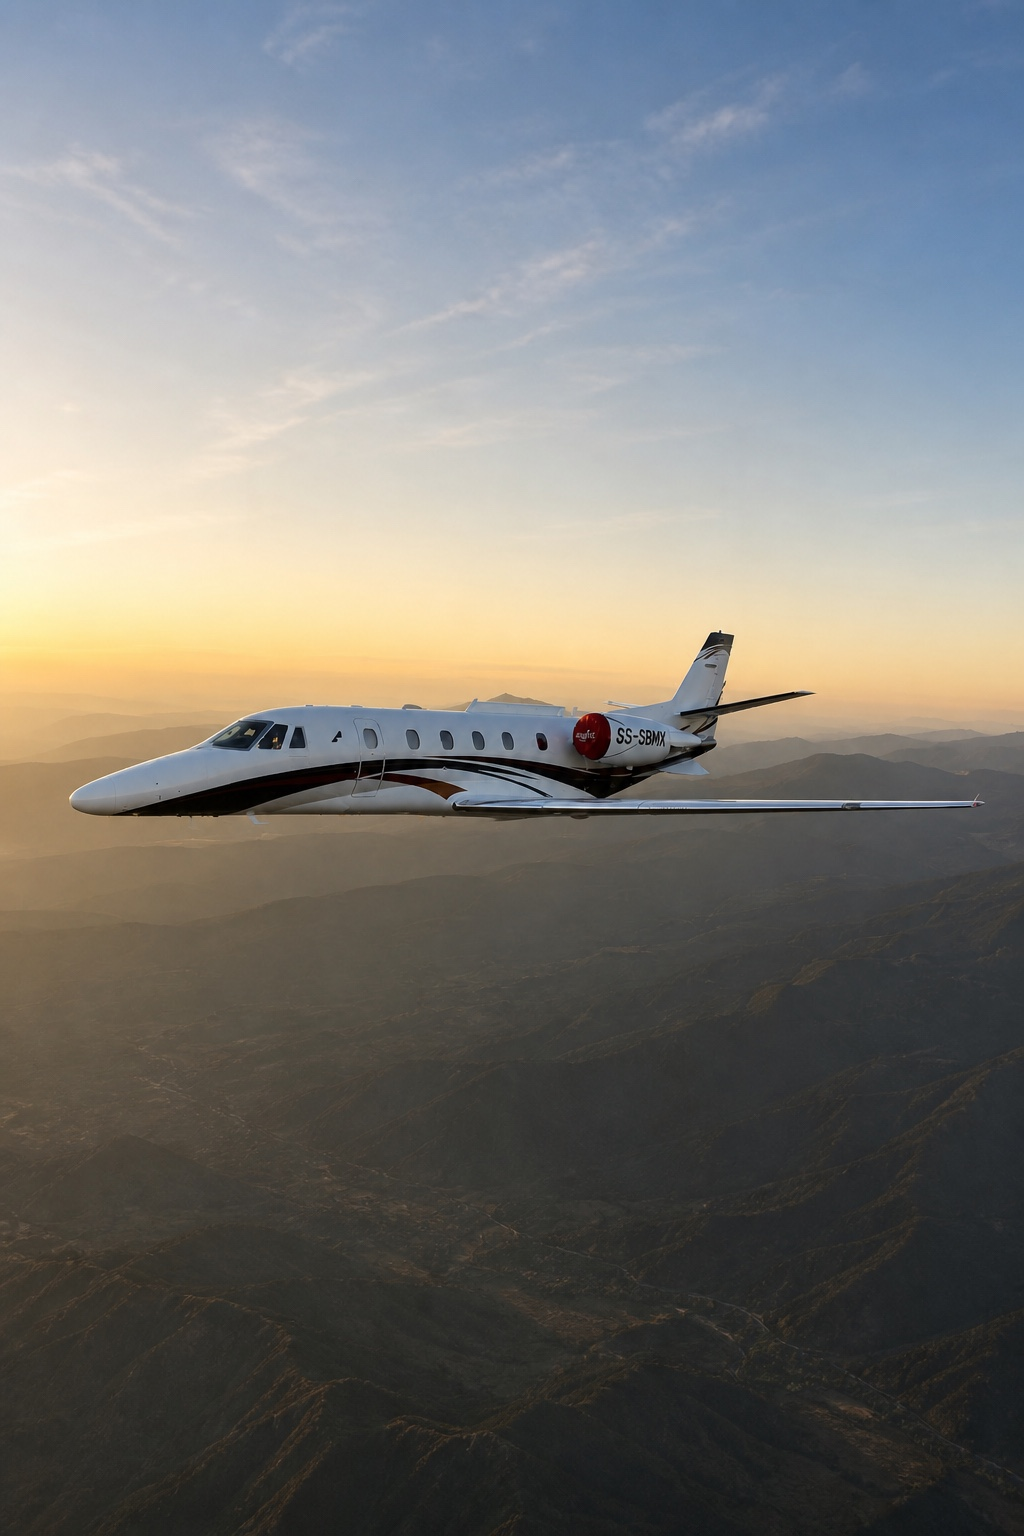
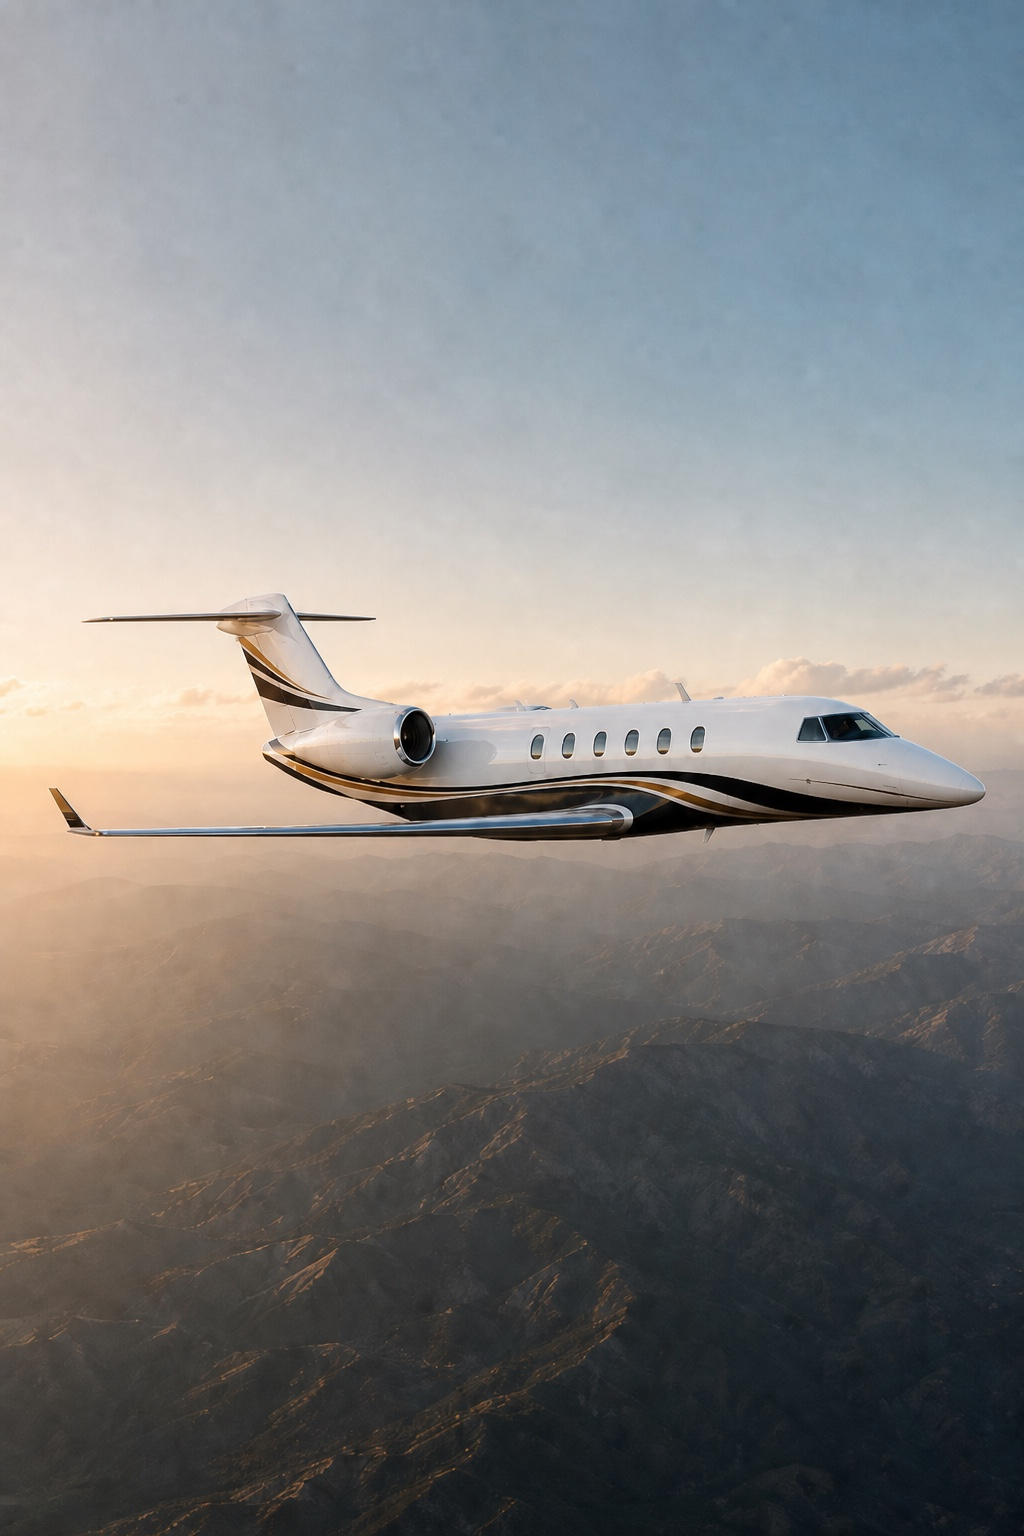
Fix the in-flight Citation for aviation realism and tighten copy, stats layout, and English.

diff --git a/presentation/en.html b/presentation/en.html
@@ -169,9 +169,10 @@
         .app-shot--secondary { width: 168px; transform: translateY(-24px); }
 
         .proof { padding: var(--section-padding); background: var(--color-bg); }
-        .proof__layout { display: grid; grid-template-columns: 1.1fr 0.9fr; gap: 56px; align-items: start; }
+        .proof__header { max-width: 760px; margin-bottom: 40px; }
+        .proof__header .section-title { margin-bottom: 0; }
+        .proof__body { display: grid; grid-template-columns: 1.1fr 0.9fr; gap: 56px; align-items: start; }
         .proof__copy p { font-size: 16px; line-height: 1.75; color: var(--color-text-muted); margin-bottom: 16px; }
-        .proof__copy .section-title { margin-bottom: 24px; }
         .proof__stats {
             background: var(--color-bg-section); border: 1px solid var(--color-border);
             border-radius: 20px; padding: 28px 32px 32px;
@@ -180,6 +181,7 @@
         .stats-grid { display: grid; grid-template-columns: 1fr 1fr; gap: 28px 24px; }
         .stat__val { font-size: 30px; font-weight: 800; line-height: 1.15; margin-bottom: 8px; color: var(--color-gold-light); }
         .stat__label { font-size: 13px; color: var(--color-text-muted); font-weight: 500; line-height: 1.4; }
+        .stats-note { margin-top: 22px; font-size: 12px; line-height: 1.45; color: var(--color-text-muted); }
 
         .ai-section { padding: var(--section-padding); background: var(--color-bg-section); }
         .ai__inner { display: grid; grid-template-columns: 1.05fr 0.95fr; gap: 64px; align-items: center; }
@@ -218,7 +220,7 @@
 
         @media (max-width: 1024px) {
             :root { --section-padding: 80px 0; }
-            .inventory-showcase, .case__container, .case-alt, .app-section__layout, .ai__inner, .proof__layout { grid-template-columns: 1fr; }
+            .inventory-showcase, .case__container, .case-alt, .app-section__layout, .ai__inner, .proof__body { grid-template-columns: 1fr; }
             .case__content, .case-alt__text { padding: 28px; }
             .inventory-showcase__photo, .case__image, .case-alt__visual { min-height: 280px; }
             .inventory-showcase__photo img, .case__image img, .case-alt__exterior { height: 280px; }
@@ -251,8 +253,8 @@
                 <div class="hero__logo">
                     <img src="images/logo.png" alt="Flight Generation Group">
                 </div>
-                <h1 class="hero__headline">You plan the trip.<br>We find the optimal aviation solution.</h1>
-                <p class="hero__subtitle">You do not need to understand aircraft types, operators and airports.</p>
+                <h1 class="hero__headline">You plan the trip.<br>We find the right aviation solution.</h1>
+                <p class="hero__subtitle">You don't need to navigate aircraft types, operators or airports.</p>
                 <p class="hero__description">
                     Tell us the route, timing and passenger mix. The FGG team will compare available options and offer several solutions with a clear rationale — by time, comfort and cost.
                 </p>
@@ -268,12 +270,12 @@
         <div class="container">
             <div class="philosophy__inner animate-on-scroll">
                 <div class="section-label">Our approach</div>
-                <h2 class="section-title">A thousand available aircraft<br>does not make the choice easier.</h2>
+                <h2 class="section-title">Access to a thousand aircraft<br>does not make choosing easier.</h2>
                 <div class="philosophy__text">
                     <p>The business aviation market is vast. A single route can have dozens of options — different in aircraft position, airports, preparation time, range, cabin, baggage capacity and cost.</p>
                     <p>FGG’s job is not to shift that choice onto the client. We reduce the market to a few options and explain the logic of each: what it actually gives within this specific trip.</p>
                 </div>
-                <p class="philosophy__close">So the client does not get the market — they get a few clear solutions.</p>
+                <p class="philosophy__close">So the client gets a few clear options — not the market.</p>
             </div>
         </div>
     </section>
@@ -284,7 +286,7 @@
                 <div class="section-label">Aircraft selection</div>
                 <h2 class="section-title">What matters is not only the aircraft type,<br>but the specific aircraft.</h2>
                 <p>Through FGG’s partner network, thousands of aircraft are accessible. But we do not add abstract models to the work — we add specific aircraft the team has reviewed and considers relevant to our clients’ requests.</p>
-                <p>So an aircraft card is not just a photograph and a specification. It is FGG’s accumulated knowledge of that specific aircraft, its configuration, and how it has been used on real trips.</p>
+                <p>An aircraft card at FGG is not just a photograph and a specification. Behind it sits accumulated knowledge of a specific aircraft, its configuration, and how it has performed on completed trips.</p>
             </div>
             <div class="inventory-steps animate-on-scroll">
                 <div class="inventory-step">
@@ -311,8 +313,8 @@
                 <article class="ac-card">
                     <div class="ac-card__label">Example aircraft</div>
                     <h3 class="ac-card__name">Citation XLS+</h3>
-                    <p class="ac-card__meta">8 passengers · Midsize</p>
-                    <div class="ac-card__why">Why this aircraft can be relevant</div>
+                    <p class="ac-card__meta">Configuration: 8 passengers · Midsize</p>
+                    <div class="ac-card__why">What it is suited for</div>
                     <p class="ac-card__text">A compact business jet for short and medium European routes. It suits small groups and can use a range of regional airports.</p>
                 </article>
             </div>
@@ -323,11 +325,11 @@
         <div class="container">
             <div class="case__header animate-on-scroll">
                 <h2 class="section-title">Different trips.<br>Different priorities.</h2>
-                <p class="case__lead">The right aircraft is defined not by class or price — but by the conditions of the specific trip.</p>
+                <p class="case__lead">The right aircraft is defined by the trip — not by class or price.</p>
             </div>
             <div class="case__container animate-on-scroll">
                 <div class="case__image">
-                    <img src="images/citation-xls-flight.jpg?v=4" alt="Cessna Citation XLS+">
+                    <img src="images/citation-xls-flight.jpg?v=5" alt="Cessna Citation XLS+">
                     <div class="case__image-overlay">
                         <div class="case__tag">Scenario 01</div>
                         <h3 style="color:#fff;font-size:22px;font-weight:800;">Cessna Citation XLS+</h3>
@@ -355,7 +357,7 @@
                             <div class="case-axis__desc">Spend justified by the conditions of this trip</div>
                         </div>
                     </div>
-                    <div class="case__quote">We do not compare aircraft prices. We compare how well different trip scenarios work.</div>
+                    <div class="case__quote">We compare how well different trip scenarios work, not aircraft prices.</div>
                     <p class="case__note">Cost remains transparent and is one parameter of the decision, alongside time, airports and comfort.</p>
                 </div>
             </div>
@@ -414,10 +416,12 @@
 
     <section class="proof">
         <div class="container">
-            <div class="proof__layout">
+            <div class="proof__header animate-on-scroll">
+                <div class="section-label">The FGG team</div>
+                <h2 class="section-title">Technology speeds up the process.<br>People remain accountable.</h2>
+            </div>
+            <div class="proof__body">
                 <div class="proof__copy animate-on-scroll">
-                    <div class="section-label">The FGG team</div>
-                    <h2 class="section-title">Technology speeds up the choice.<br>Responsibility stays with people.</h2>
                     <p>Flight Generation Group has worked in business aviation since 2015 and is based in Dubai South. We organise private and corporate charters worldwide and manage aircraft.</p>
                     <p>The app makes the interaction faster and more transparent. But behind the selection and organisation of every flight remains the FGG team — people who know the aviation market, the operators, and the specifics of how a flight is actually carried out.</p>
                 </div>
@@ -441,6 +445,7 @@
                         <div class="stat__label">average willingness to recommend FGG</div>
                     </div>
                     </div>
+                    <p class="stats-note">Average from FGG client surveys</p>
                 </div>
             </div>
         </div>
@@ -474,7 +479,7 @@
                     <h2 class="section-title">No form to fill in.<br>Just describe the trip.</h2>
                     <p class="ai__desc">FGG’s personal AI assistant understands an ordinary text request: route, dates, passengers and main preferences. Where needed, it asks clarifying questions and forms a structured aviation request.</p>
                     <p class="ai__desc">That shortens the path from the idea of a trip to the first suitable options. Final selection and organisation of the flight are controlled by the FGG team.</p>
-                    <div class="ai__formula">AI speeds up the request. The FGG team is responsible for the decision.</div>
+                    <div class="ai__formula">AI speeds up the request. The final decision stays with the FGG team.</div>
                 </div>
             </div>
         </div>

diff --git a/presentation/index.html b/presentation/index.html
@@ -169,9 +169,10 @@
         .app-shot--secondary { width: 168px; transform: translateY(-24px); }
 
         .proof { padding: var(--section-padding); background: var(--color-bg); }
-        .proof__layout { display: grid; grid-template-columns: 1.1fr 0.9fr; gap: 56px; align-items: start; }
+        .proof__header { max-width: 760px; margin-bottom: 40px; }
+        .proof__header .section-title { margin-bottom: 0; }
+        .proof__body { display: grid; grid-template-columns: 1.1fr 0.9fr; gap: 56px; align-items: start; }
         .proof__copy p { font-size: 16px; line-height: 1.75; color: var(--color-text-muted); margin-bottom: 16px; }
-        .proof__copy .section-title { margin-bottom: 24px; }
         .proof__stats {
             background: var(--color-bg-section); border: 1px solid var(--color-border);
             border-radius: 20px; padding: 28px 32px 32px;
@@ -180,6 +181,7 @@
         .stats-grid { display: grid; grid-template-columns: 1fr 1fr; gap: 28px 24px; }
         .stat__val { font-size: 30px; font-weight: 800; line-height: 1.15; margin-bottom: 8px; color: var(--color-gold-light); }
         .stat__label { font-size: 13px; color: var(--color-text-muted); font-weight: 500; line-height: 1.4; }
+        .stats-note { margin-top: 22px; font-size: 12px; line-height: 1.45; color: var(--color-text-muted); }
 
         .ai-section { padding: var(--section-padding); background: var(--color-bg-section); }
         .ai__inner { display: grid; grid-template-columns: 1.05fr 0.95fr; gap: 64px; align-items: center; }
@@ -218,7 +220,7 @@
 
         @media (max-width: 1024px) {
             :root { --section-padding: 80px 0; }
-            .inventory-showcase, .case__container, .case-alt, .app-section__layout, .ai__inner, .proof__layout { grid-template-columns: 1fr; }
+            .inventory-showcase, .case__container, .case-alt, .app-section__layout, .ai__inner, .proof__body { grid-template-columns: 1fr; }
             .case__content, .case-alt__text { padding: 28px; }
             .inventory-showcase__photo, .case__image, .case-alt__visual { min-height: 280px; }
             .inventory-showcase__photo img, .case__image img, .case-alt__exterior { height: 280px; }
@@ -284,7 +286,7 @@
                 <div class="section-label">Отбор воздушных судов</div>
                 <h2 class="section-title">Нам важно знать не только тип самолёта,<br>но и конкретный борт.</h2>
                 <p>Через партнёрскую сеть FGG доступны тысячи воздушных судов. Но в работу мы добавляем не абстрактные модели, а конкретные самолёты, которые команда изучила и считает релевантными для запросов наших клиентов.</p>
-                <p>Поэтому карточка самолёта для нас — это не просто фотография и спецификация. Это накопленное знание FGG о конкретном борте, его конфигурации и опыте использования в реальных поездках.</p>
+                <p>Карточка самолёта для FGG — не просто фотография и спецификация. За ней стоит накопленное знание о конкретном борте, его конфигурации и опыте выполненных поездок.</p>
             </div>
             <div class="inventory-steps animate-on-scroll">
                 <div class="inventory-step">
@@ -311,8 +313,8 @@
                 <article class="ac-card">
                     <div class="ac-card__label">Пример воздушного судна</div>
                     <h3 class="ac-card__name">Citation XLS+</h3>
-                    <p class="ac-card__meta">8 пассажиров · Midsize</p>
-                    <div class="ac-card__why">Почему этот самолёт может быть интересен</div>
+                    <p class="ac-card__meta">Конфигурация: 8 пассажиров · Midsize</p>
+                    <div class="ac-card__why">Для каких задач он подходит</div>
                     <p class="ac-card__text">Компактный бизнес-джет для коротких и средних европейских маршрутов. Подходит для поездок небольшим составом и позволяет использовать ряд региональных аэропортов.</p>
                 </article>
             </div>
@@ -327,7 +329,7 @@
             </div>
             <div class="case__container animate-on-scroll">
                 <div class="case__image">
-                    <img src="images/citation-xls-flight.jpg?v=4" alt="Cessna Citation XLS+">
+                    <img src="images/citation-xls-flight.jpg?v=5" alt="Cessna Citation XLS+">
                     <div class="case__image-overlay">
                         <div class="case__tag">Сценарий 01</div>
                         <h3 style="color:#fff;font-size:22px;font-weight:800;">Cessna Citation XLS+</h3>
@@ -414,10 +416,12 @@
 
     <section class="proof">
         <div class="container">
-            <div class="proof__layout">
+            <div class="proof__header animate-on-scroll">
+                <div class="section-label">Команда FGG</div>
+                <h2 class="section-title">Технология ускоряет выбор.<br>Ответственность остаётся у людей.</h2>
+            </div>
+            <div class="proof__body">
                 <div class="proof__copy animate-on-scroll">
-                    <div class="section-label">Команда FGG</div>
-                    <h2 class="section-title">Технология ускоряет выбор.<br>Ответственность остаётся у людей.</h2>
                     <p>Flight Generation Group работает в бизнес-авиации с 2015 года и базируется в Dubai South. Мы организуем частные и корпоративные чартеры по всему миру и занимаемся управлением воздушными судами.</p>
                     <p>Приложение помогает сделать взаимодействие быстрее и прозрачнее. Но за подбором и организацией каждого рейса остаётся команда FGG — люди, которые знают авиационный рынок, операторов и конкретные особенности выполнения перелёта.</p>
                 </div>
@@ -441,6 +445,7 @@
                         <div class="stat__label">средняя готовность рекомендовать FGG</div>
                     </div>
                     </div>
+                    <p class="stats-note">Среднее значение по клиентским опросам FGG</p>
                 </div>
             </div>
         </div>
